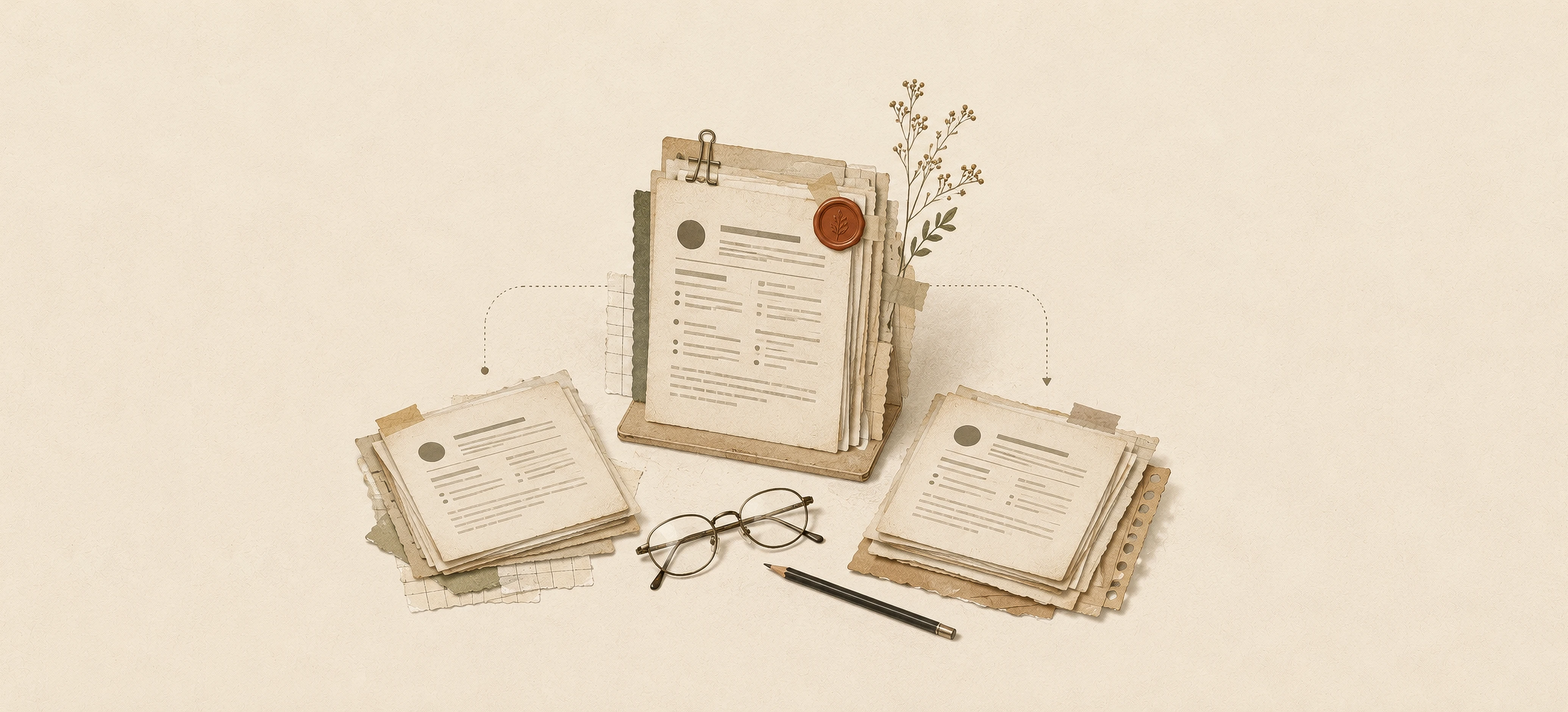
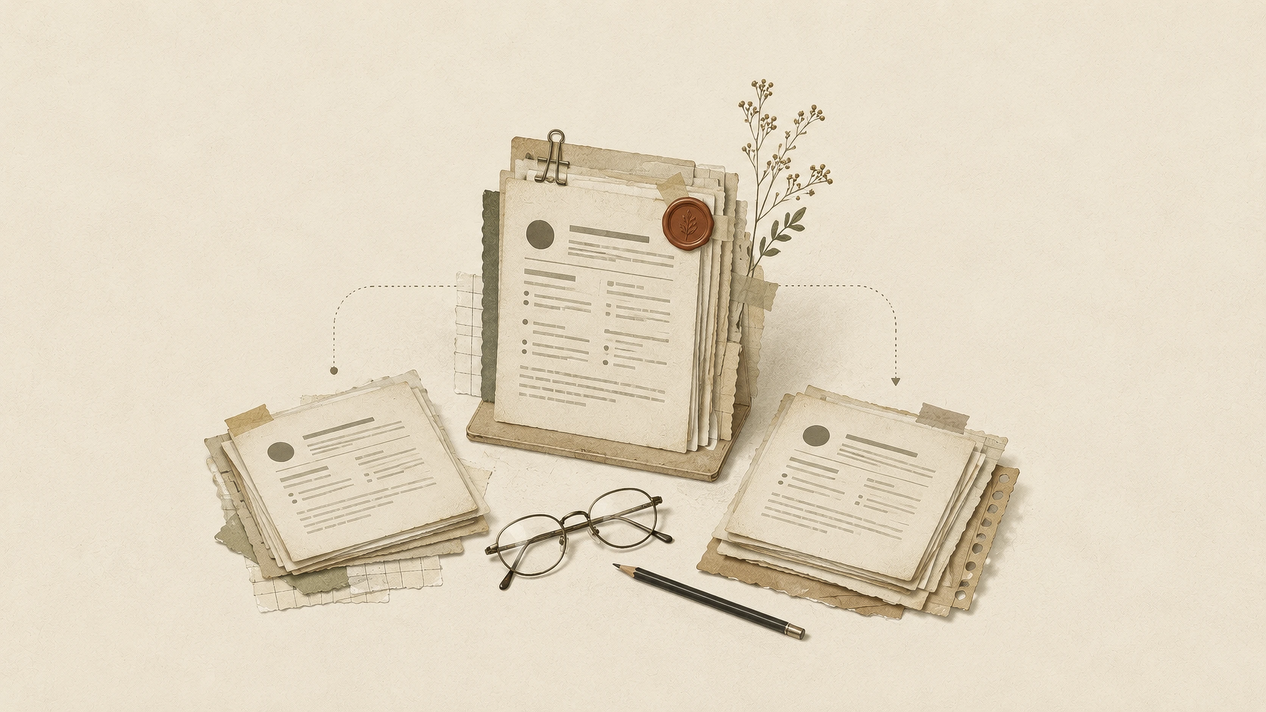
revert(hero): back to v3.2 — 16:9 ratio, 3344x1882 source images, end trigger 40%
v3.4's 2.2:1 recomposed source images and centered (50%) end trigger are
reverted at the author's request. Restored the pre-v3.4 WebPs (byte-
identical to commit 23297c6) and reverted .case-hero's aspect-ratio to
16/9 and HeroClient.tsx's END_VIEWPORT_FRACTION to 0.4.

Verified globals.css and HeroClient.tsx now match commit 3564e8e (v3.2)
exactly aside from one comment clarifying the trigger-derivation
mechanism in prose. A follow-up swap to ~4140x2582 source images at
1.6/1 is discussed as a possible next step, pending the author's
confirmation -- not implemented here.

Claude-Session: https://claude.ai/code/session_01YaoeMjbquMBVoMujHM9p8m

Changed region(s): [[0.1555, 0.0925, 0.8086, 0.9245]]

diff --git a/app/globals.css b/app/globals.css
@@ -439,7 +439,7 @@
    into that tracking — exactly the trap the old version was built around
    avoiding). Progress now comes from a plain rAF loop keyed off
    window.scrollY, in HeroClient.tsx: trigger positions (scrollY where the
-   hero's center reaches 50% of viewport height, with the start trigger
+   hero's center reaches 40% of viewport height, with the start trigger
    derived backward from a fixed scroll-span fraction) are computed once at
    mount and on resize — never read back from the element's own current,
    possibly mid-animation rect, which would be the same self-tracking
@@ -451,16 +451,10 @@
   width: min(var(--hero-width-start), calc(100vw - 3rem));
   max-width: none; /* override Tailwind preflight's img{max-width:100%} — otherwise it clamps
                        to .prose-works's 672px content box regardless of the width above */
-  /* Source images are now authored at 4140×1882 (2.2:1) specifically for
-     this box — a 16:9 crop, at full viewport width, renders taller than
-     common desktop viewports (e.g. 1905px wide → 1071px tall vs. a
-     953px-tall viewport), clipping the top once the grow animation
-     finishes. 2.2/1 (≈866px tall at 1905px wide) fits inside that viewport
-     with room to spare. */
-  aspect-ratio: 2.2 / 1;
+  aspect-ratio: 16 / 9;
   height: auto;
-  object-fit: cover; /* source ratio is 4140/1882 ≈ 2.1998, not bit-exact 2.2;
-                         this guarantees no stretching from that rounding */
+  object-fit: cover; /* the source is ~16:9 but not bit-exact; this guarantees
+                         no stretching even for the tiny leftover mismatch */
   margin-top: var(--hero-gap-top);
   margin-bottom: var(--figure-gap-block);
   /* NOT margin-inline:auto — confirmed in an earlier round that once a

diff --git a/app/components/mdx/HeroClient.tsx b/app/components/mdx/HeroClient.tsx
@@ -13,9 +13,7 @@ interface HeroClientProps {
 const BASE_RADIUS = 12; // must match .case-hero's border-radius in globals.css
 const HERO_WIDTH_START = 1280; // must match --hero-width-start in globals.css
 const SMOOTHING = 0.08; // ≈ GSAP ScrollTrigger scrub: 0.8
-const END_VIEWPORT_FRACTION = 0.5; // hero center at 50% (vertically centered) of viewport height —
-// with the new 2.2/1 source images this puts the fully-grown hero fully
-// on-screen with air above and below, instead of pushed toward the top
+const END_VIEWPORT_FRACTION = 0.4; // hero center at 40% of viewport height
 const SPAN_VH_FRACTION = 0.3; // scroll span = 30% of viewport height, anchored off the end trigger
 const CONVERGED_THRESHOLD = 0.001;
 
